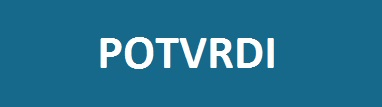
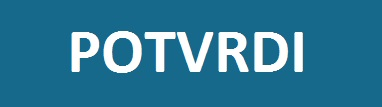
Pretraga

Changed region(s): [[0.1728, 0.2804, 0.8063, 0.7009]]

diff --git a/Implementacija/MVC/Ludi kamen/Views/CSS/stilovi.css b/Implementacija/MVC/Ludi kamen/Views/CSS/stilovi.css
@@ -70,7 +70,7 @@ footer {
     text-align:center;
     margin-bottom:0px;
     padding-bottom:0px;
-    color:#16698b;  
+    color:#16698b;
 }
 
 p {
@@ -115,12 +115,6 @@ p {
     width: 75%;
 }
 
-#dugme {
-    background-color: #16698b;
-    border-radius: 15px;
-    width: 50%;
-}
-
 #pretraga {
     float: right;
     width: 75%;
@@ -146,7 +140,6 @@ p {
     border-bottom-color: #16698b;
     border-bottom-style: solid;
     width: 75%;
-    height: 15%; 
 }
 
 #tabela {
@@ -161,3 +154,13 @@ p {
     width: 50%;
 }
 
+#slika {
+    border-color: #16698b;
+    border-style: solid;
+}
+
+#ukupno {
+    border-color: #16698b;
+    border-style: solid;
+    background-color: white;
+}

diff --git a/Implementacija/MVC/Ludi kamen/Views/Restorani.php b/Implementacija/MVC/Ludi kamen/Views/Restorani.php
@@ -33,7 +33,7 @@
             <br />
             <font id="naslov"> Filteri </font>
             <br /><br />
-            <form name="forma-filteri" method='POST'>
+            <form name="forma-filteri" method='POST' action="http://localhost:8080/LudiKamen/Codeigniter/index.php/Pretraga/Restorani">
                 <font id="slova"> Grad: </font>
                 <br />
                 <input type="text" name="grad" id="tekst"/>
@@ -49,13 +49,11 @@
                 <br /><br />
                 <font id="slova"> Cena po osobi (u €): </font>
                 <br />
-                <input type="range" name="cena" min="10" max="100" value="0" onchange="showValue(this.value, 'c')" style="margin-left: 10%; width: 70%"/>
-                <span id="c">10</span>
+                <input type="range" name="cena" min="0" max="99" value="0" onchange="showValue(this.value, 'c')" style="margin-left: 10%; width: 70%"/>
+                <span id="c">0</span>
                 <br /><br />
                 <center> 
-                    <button form="forma-filteri" id="dugme" type="submit" action='http://localhost:8080/LudiKamen/Codeigniter/index.php/Pretraga/Restorani'> 
-                        <font style="color:#e3f2f2;"> POTVRDI </font>
-                    </button> 
+                    <input name="dugme" type="image" value="" src="http://localhost:8080/Slike/potvrdi.jpeg" width="120" height="35"/> 
                 </center>
             </form>
         </div>
@@ -65,7 +63,12 @@
             <font id="naslov2" style="font-size:30px"> Pregled restorana </font>
             <br /><br />
             
-            <?php foreach ($query as $row) { 
+            <?php 
+            if ($brRedova == 0) {
+                echo "<font id='naslov2'> Nema rezultata. </font> <br><br>";
+            }
+            else {
+            foreach ($query as $row) { 
                 $slika = 'http://localhost:8080/Slike/' . $row->ImePrezime . '.jpg';
                 $ime = str_replace(' ', '', $row->ImePrezime);
                 $link = 'http://localhost:8080/LudiKamen/Codeigniter/index.php/Pregled/Restoran/' . $ime;
@@ -75,44 +78,31 @@
 		<br>
 		<table id="tabela">
 			<tr> 
-                            <td rowspan="3" width="30%"> <?php echo "<a href='{$link}'/>"; ?> <?php echo "<img src='{$slika}' height='170' width='220'/>"; ?> </a> </td>
-                            <td colspan="4"> <?php echo "<a href='{$link}'/>"; ?> <font id="naslov2"> <u> <?php echo $row->ImePrezime; ?> </u> </font> </a> </td>
+                            <td rowspan="3" width="30%"> <?php echo "<a href='{$link}'/>"; ?> <?php echo "<img src='{$slika}' height='170' width='220' id='slika'/>"; ?> </a> </td>
+                            <td colspan="4"> <?php echo "<a href='{$link}'/>"; ?> <font id="naslov2"> &nbsp;&nbsp; <u> <?php echo $row->ImePrezime; ?> </u> </font> </a> </td>
 			</tr>
 			<tr>
                             <td colspan="4"> 
                                 <font color="#16698b" size="3"> 
-                                    <?php echo $row->Opis; ?>
+                                    &nbsp;&nbsp; <?php echo $row->Opis; ?>
                                 </font> 
                             </td>
 			</tr>
 			<tr>  
-                            <td> <font color="red" size="4"> Ocena: <b> <?php echo $row->Ocena; ?> </b> </font> </td>
+                            <td> <font color="red" size="4"> &nbsp;&nbsp; Ocena: <b> <?php echo $row->Ocena; ?> </b> </font> </td>
                             <td> <font color="#62c2e8" size="4"> Cena po osobi: <b> <?php echo $row->Cena; ?> € </b> </font> </td>
-                            <td colspan="2"> <?php echo "<a href='{$link}'/>"; ?> <font color="#16698b" size="4"> <b> DUGME </b> </font> </a> </td>
+                            <td colspan="2"> <?php echo "<a href='{$link}'/>"; ?> <font color="#16698b" size="4"> <image src="http://localhost:8080/Slike/detaljnije.jpeg" width="120" height="35"/> </font> </a> </td>
 			</tr> 
 		</table>
 		<br>
             </div>
             
-            <?php } 
+            <?php } }
             ?>
-        
-            <div id="linkovi">
-                <table id="tabela">
-                    <tr>
-                        <td width="33%" align="center"> <a href="#"> <font color="#16698b" size="4"> Prethodna </font> </a> </td>
-                        <td width="33%" align="center"> 
-                            <a href="#"> <font color="#16698b" size="4"> 1 </font> </a>
-                            <font color="#16698b" size="4"> | </font>
-                            <a href="#"> <font color="#16698b" size="4"> 2 </font> </a>
-                            <font color="#16698b" size="4"> | </font>
-                            <a href="#"> <font color="#16698b" size="4"> 3 </font> </a>
-                        </td>
-                        <td width="33%" align="center"> <a href="#"> <font color="#16698b" size="4"> Sledeća </font> </a> </td>
-                    </tr>
-                </table>
-            </div>
-            <br><br>
+ 
+            <div id="linkovi"> </div>
+            
+            <br>
             
         </div>
         

diff --git a/Implementacija/MVC/Ludi kamen/Models/RestoranModel.php b/Implementacija/MVC/Ludi kamen/Models/RestoranModel.php
@@ -2,15 +2,43 @@
 
 class RestoranModel extends CI_Model {
     
-    function getAll() {
+    function numRows() {
         $this->load->database();
         
         $grad = $this->input->post('grad');
+        $gosti = $this->input->post('gosti');
+        $cena = $this->input->post('cena');
         
         $this->db->select('*');
         $this->db->from('restoran r');
         $this->db->join('pruzalacusluga p', 'r.IDKorisnik = p.IDKorisnik', 'left');
         $this->db->join('korisnik k', 'k.IDKorisnik = r.IDKorisnik', 'left');
+        
+        if ($grad != "") { $this->db->like('Grad', $grad); }
+        if ($gosti > 0) { $this->db->where('r.Kapacitet >=', $gosti); }
+        if ($cena > 0) { $this->db->where('r.Cena <=', $cena); }
+                
+        $query = $this->db->get('restoran');
+        
+        return $query->num_rows();
+    }
+    
+    function getAll() {
+        $this->load->database();
+        
+        $grad = $this->input->post('grad');
+        $gosti = $this->input->post('gosti');
+        $cena = $this->input->post('cena');
+        
+        $this->db->select('*');
+        $this->db->from('restoran r');
+        $this->db->join('pruzalacusluga p', 'r.IDKorisnik = p.IDKorisnik', 'left');
+        $this->db->join('korisnik k', 'k.IDKorisnik = r.IDKorisnik', 'left');
+        
+        if ($grad != "") { $this->db->like('Grad', $grad); }
+        if ($gosti > 0) { $this->db->where('r.Kapacitet >=', $gosti); }
+        if ($cena > 0) { $this->db->where('r.Cena <=', $cena); }
+                
         $query = $this->db->get('restoran');
         
         return $query->result();

diff --git a/Implementacija/MVC/Ludi kamen/Views/RezervacijaRestorana.php b/Implementacija/MVC/Ludi kamen/Views/RezervacijaRestorana.php
@@ -79,7 +79,7 @@
                         </tr>
                         <tr>
                             <td width="50%" align="center"> <font color="#16698b" size="3"> Datum isteka </font> </td>
-                            <td width="50%" align="center"> <input type="text" name="datumisteka" size="30" /> </td>
+                            <td width="50%" align="center"> <input type="text" value="mm/dd/gggg" name="datumisteka" size="30" /> </td>
                         </tr>
                         <tr>
                             <td width="50%" align="center"> <font color="#16698b" size="3"> Sigurnosni broj </font> </td>
@@ -96,8 +96,8 @@
                             <td colspan="2" height="20"> </td>
                         </tr>
                         <tr>
-                            <td width="50%" align="center"> <font color="#16698b" size="3"> <b> POTVRDI </b> </font> </td>
-                            <td width="50%" align="center"> <font color="#16698b" size="3"> <b> ODUSTANI </b> </font> </td>
+                            <td width="50%" align="center"> <font color="#16698b" size="3"> <image src="http://localhost:8080/Slike/potvrdi.jpeg" width="120" height="35"/> </font> </td>
+                            <td width="50%" align="right"> <font color="#16698b" size="3"> <image src="http://localhost:8080/Slike/odustani.jpeg" width="120" height="35"/> </font> </td>
                         </tr>
                     </table>
                     <br>

diff --git a/Implementacija/MVC/Ludi kamen/Controllers/Pretraga.php b/Implementacija/MVC/Ludi kamen/Controllers/Pretraga.php
@@ -4,6 +4,7 @@ class Pretraga extends CI_Controller {
     
     function Restorani () {
         $this->load->model('RestoranModel');
+        $data['brRedova'] = $this->RestoranModel->numRows();
         $data['query'] = $this->RestoranModel->getAll();
         $this->load->view('Restorani', $data);
     }

diff --git a/Implementacija/MVC/Ludi kamen/Controllers/Rezervacija.php b/Implementacija/MVC/Ludi kamen/Controllers/Rezervacija.php
@@ -2,7 +2,8 @@
 
 class Rezervacija extends CI_Controller {
     
-    function Restoran ($naziv='') {
+    function Restoran ($ime='') {
+        $naziv = preg_replace('/(?<!^)([A-Z])/', ' \\1', $ime);
         $data['naziv'] = $naziv;
         $this->load->view('RezervacijaRestorana', $data);
     }
